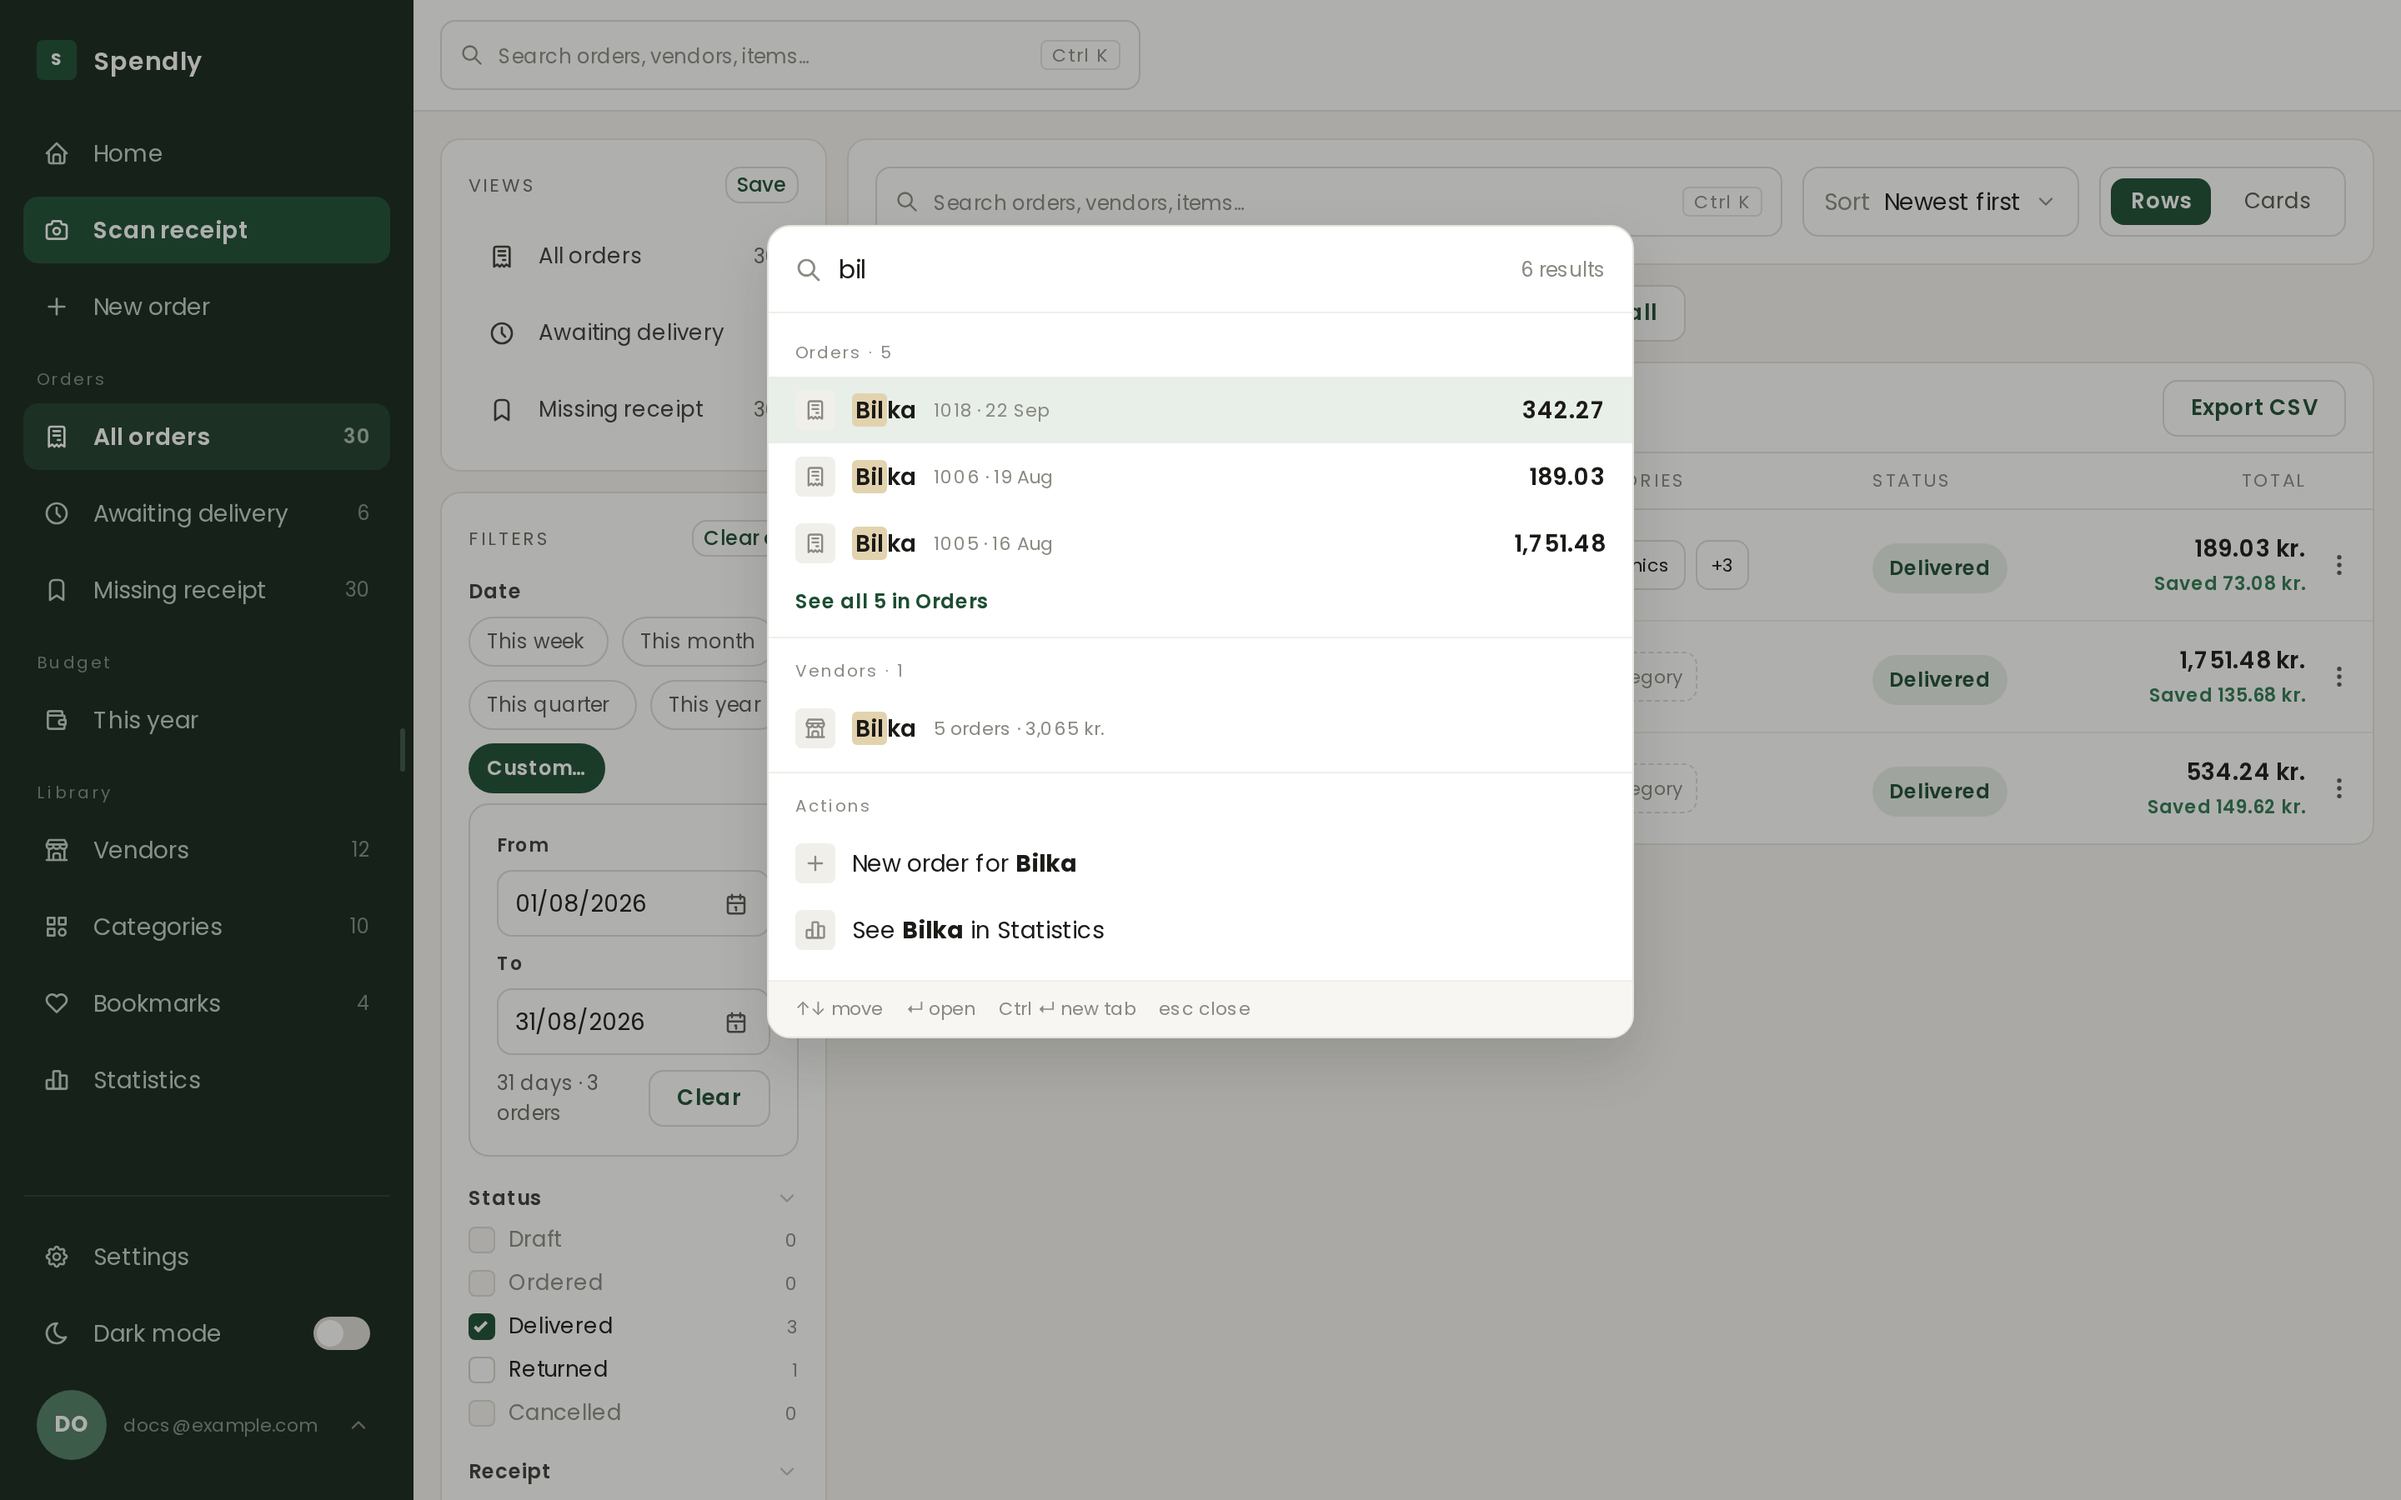
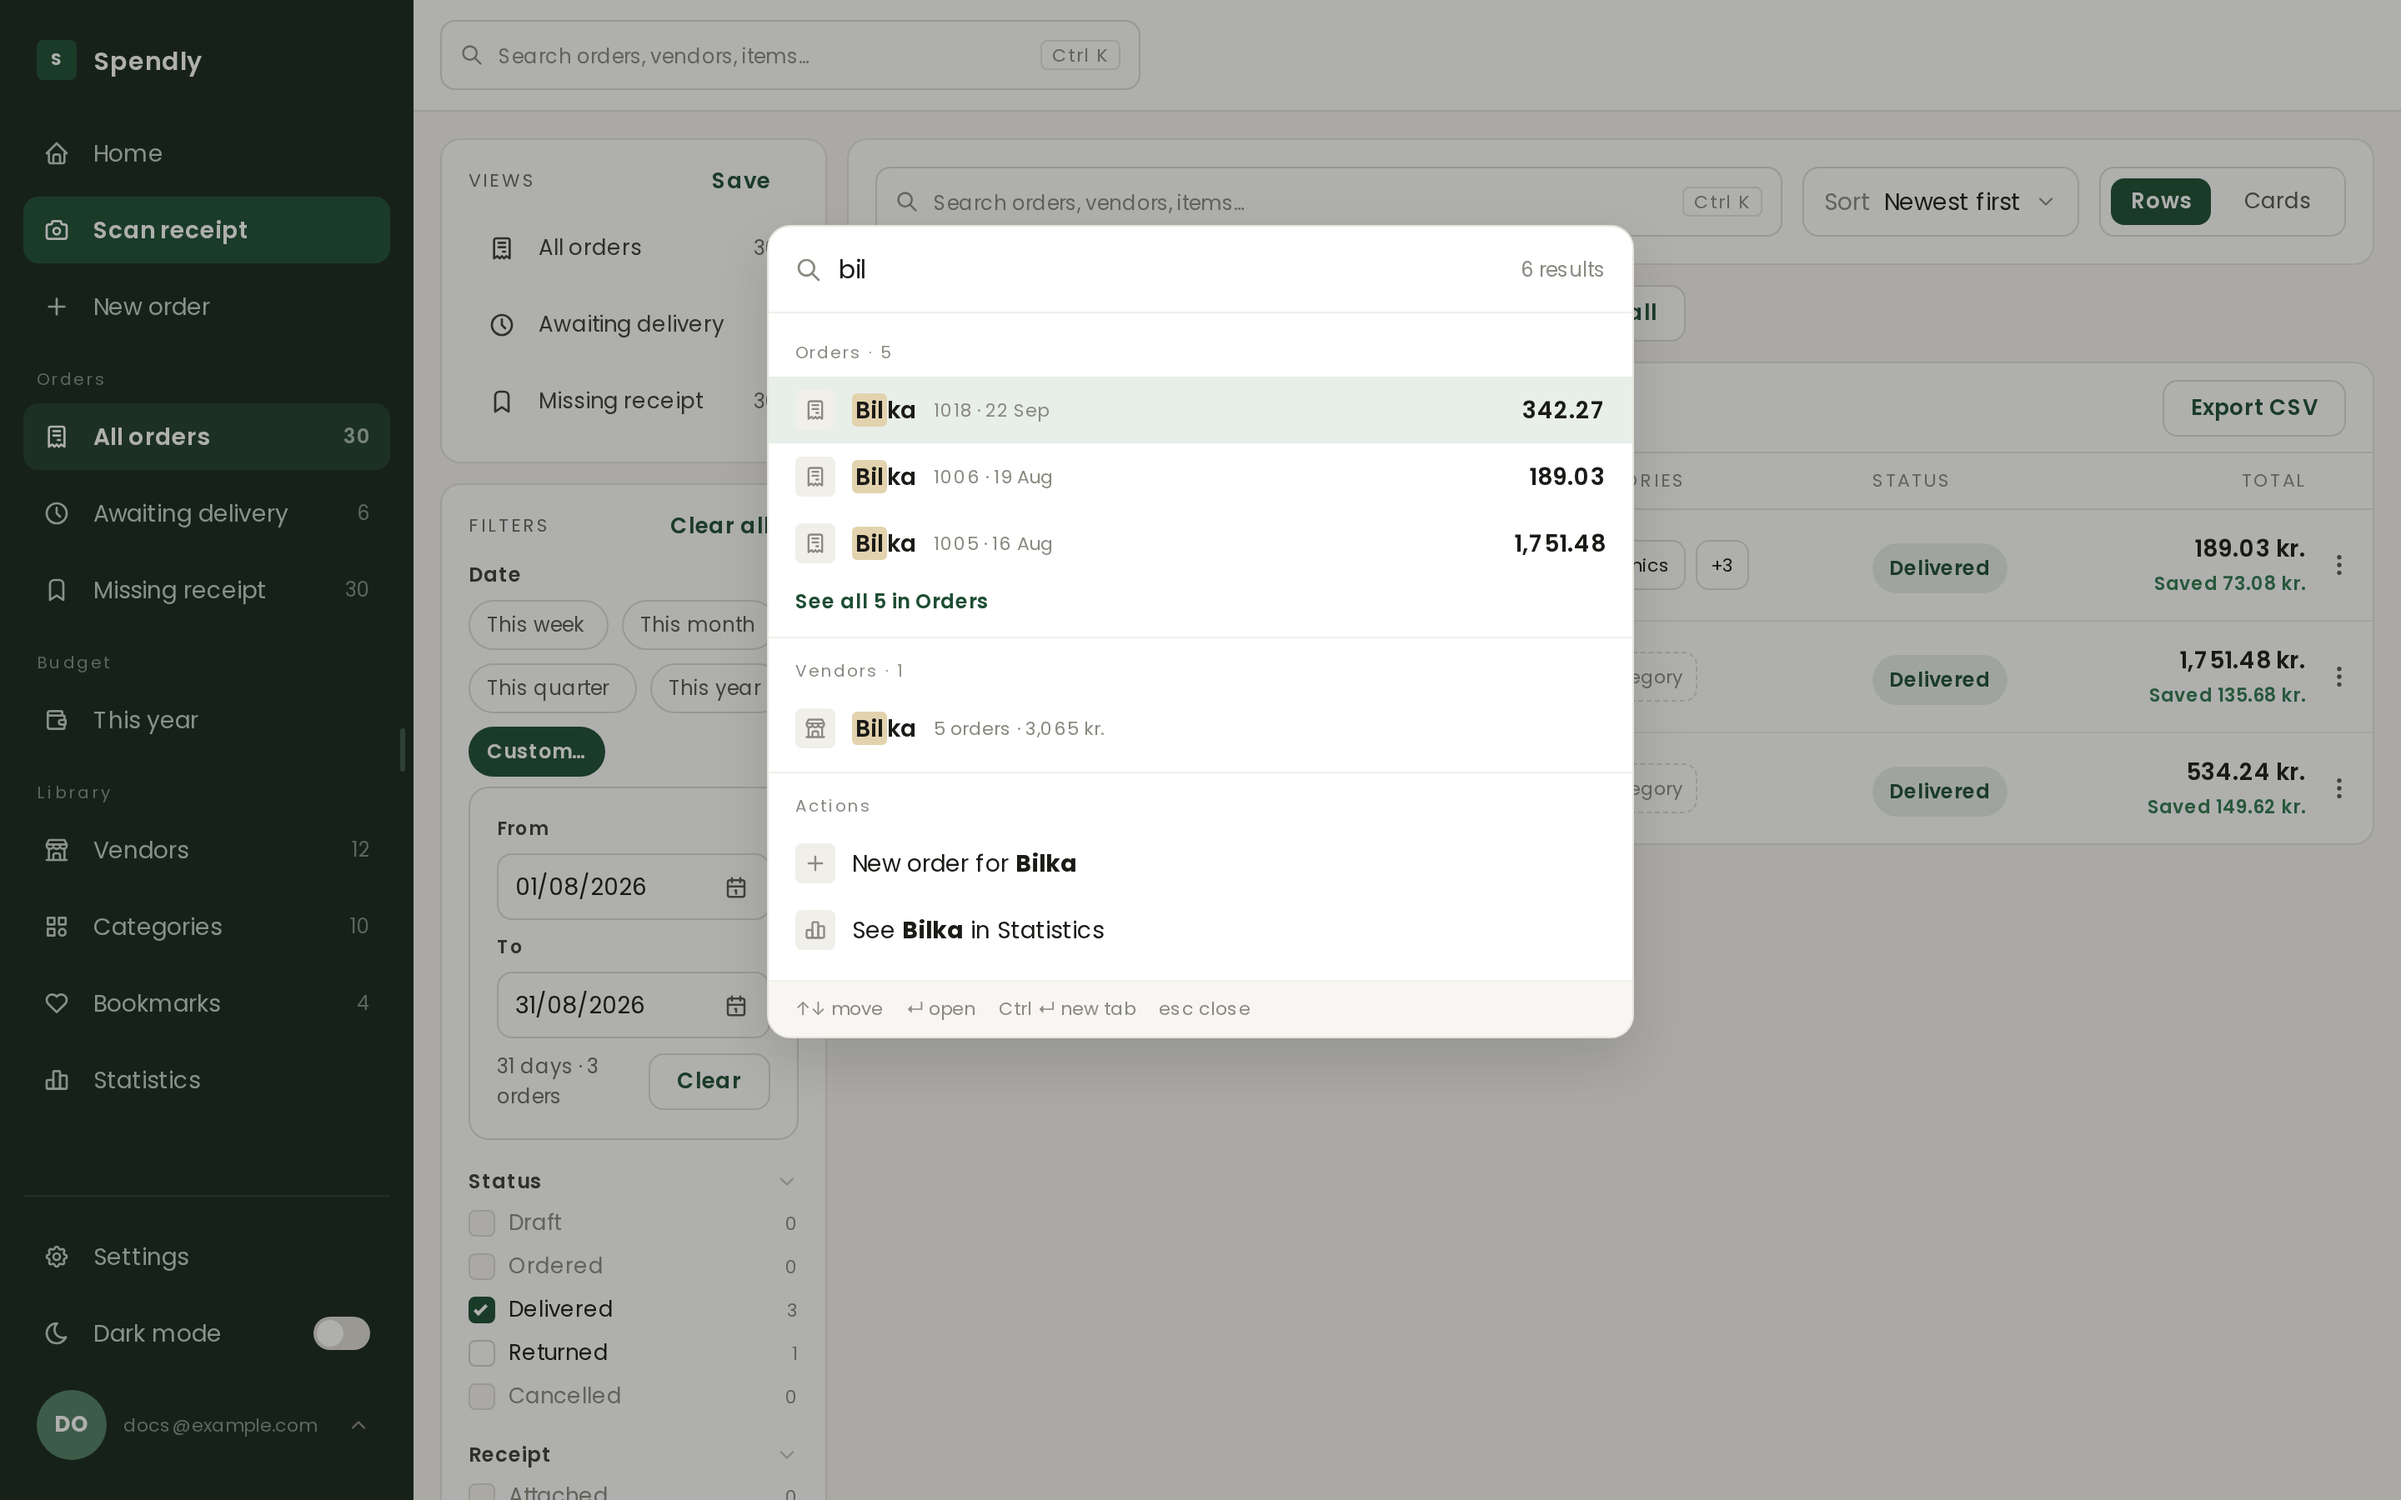
Make the action beside a card's name a text link everywhere
Download all on an order's attachments, Edit on category beside Monthly limit, and the Views
and Filters cards' Edit, Save, Done, Cancel and Clear all are the same text link as Home's All,
so every card's name sits where it does on a card with nothing beside it. On a phone Edit on
category stays the button in the card's footer. The two order list screenshots are rendered
again for it.

diff --git a/react/src/pages/Statistics.jsx b/react/src/pages/Statistics.jsx
@@ -1148,7 +1148,7 @@ function SavingChart({ chart, name, touch, selected, onOpen }) {
 /** One category inside a crumb, month by month against its one limit (4c). */
 function LimitByMonth({ chart, selected, category, pace, touch }) {
 	const budget = category.budget
-	const edit = <EditLimit key="edit" category={category} />
+	const edit = <EditLimit key="edit" category={category} head={!touch} />
 	const upTo = selected ? chart.columns.findIndex(c => c.key === selected) + 1 : chart.columns.length
 	const months = chart.columns.slice(Math.max(0, upTo - 3), upTo)
 	return (
@@ -1185,14 +1185,15 @@ const LIMITED = 'spendly:limited'
 const rememberedLimits = () => { try { return Number(sessionStorage.getItem(LIMITED)) || 0 } catch { return 0 } }
 const rememberLimits = n => { try { sessionStorage.setItem(LIMITED, String(n)) } catch { /* storage denied */ } }
 
-/** Every category's limit is set on the overview (5d); one category's on its own page, at the limit (5f). */
-const EditLimit = ({ category }) => (
-	<Button variant="outline" size="small" to={category ? `/categories/${category.id}/edit?focus=limit` : '/categories?flag=limited'}>Edit on category</Button>
+/** Every category's limit is set on the overview (5d); one category's on its own page, at the limit (5f). Beside
+    the card's name it is the head's text link; on a phone it is the footer's button. */
+const EditLimit = ({ category, head = false }) => (
+	<Button variant={head ? 'text' : 'outline'} size="small" to={category ? `/categories/${category.id}/edit?focus=limit` : '/categories?flag=limited'}>Edit on category</Button>
 )
 
 function LimitCard({ view, name, running, categories, touch, onRetry }) {
 	const shown = useShown()
-	const edit = <EditLimit key="edit" />
+	const edit = <EditLimit key="edit" head={!touch} />
 	// a phone button takes the full width, so there it sits in the card's footer rather than squeezing the label
 	const head = (
 		<div className="sp-row-flex sp-gap-12">

diff --git a/react/src/pages/OrderViews.jsx b/react/src/pages/OrderViews.jsx
@@ -82,10 +82,10 @@ export function ViewsCard({ params, matched, summary, onList = true }) {
 		}
 	})
 
-	const slot = mode === 'editing' ? <Button variant="outline" size="xsmall" onClick={() => setMode('rest')}>Done</Button>
-		: mode === 'naming' ? <Button variant="outline" size="xsmall" onMouseDown={ev => ev.preventDefault()} onClick={() => setMode('rest')}>Cancel</Button>
-			: now && (!active || edited) ? <Button variant="outline" size="xsmall" onClick={() => setMode('naming')}>Save</Button>
-				: <Button variant="outline" size="xsmall" onClick={() => setMode('editing')}>Edit</Button>
+	const slot = mode === 'editing' ? <Button variant="text" size="small" onClick={() => setMode('rest')}>Done</Button>
+		: mode === 'naming' ? <Button variant="text" size="small" onMouseDown={ev => ev.preventDefault()} onClick={() => setMode('rest')}>Cancel</Button>
+			: now && (!active || edited) ? <Button variant="text" size="small" onClick={() => setMode('naming')}>Save</Button>
+				: <Button variant="text" size="small" onClick={() => setMode('editing')}>Edit</Button>
 	const count = n => (n == null ? undefined : amount(n, 0))
 
 	return (

diff --git a/react/src/pages/Orders.jsx b/react/src/pages/Orders.jsx
@@ -316,7 +316,7 @@ export default function OrderList() {
 			<div className="sp-row-flex">
 				<span className="sp-section-label">Filters</span>
 				<span className="sp-grow" />
-				<Button variant="outline" size="xsmall" onClick={clearAll}>Clear all</Button>
+				<Button variant="text" size="small" onClick={clearAll}>Clear all</Button>
 			</div>
 			<OrderFacets f={f} update={update} custom={custom} setCustom={setCustom} matched={orders.data?.matched} counts={facets.data?.facets} {...facetData} />
 		</Card>

diff --git a/react/src/pages/Order.jsx b/react/src/pages/Order.jsx
@@ -107,7 +107,7 @@ function OrderView({ order, touch, onGone }) {
 				<div className="sp-row-flex sp-wrap sp-gap-8">
 					<span className="sp-section-label">Attachments{dot}{order.attachments.length}</span>
 					<span className="sp-grow" />
-					<Button variant="outline" size="small" onClick={() => downloadAll(order)}>Download all</Button>
+					<Button variant="text" size="small" onClick={() => downloadAll(order)}>Download all</Button>
 				</div>
 				<Strip>
 					{order.attachments.map(a => (
